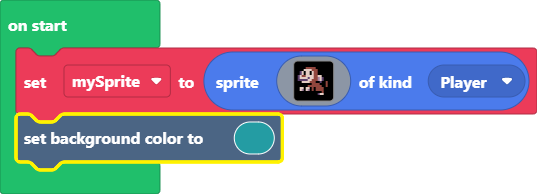
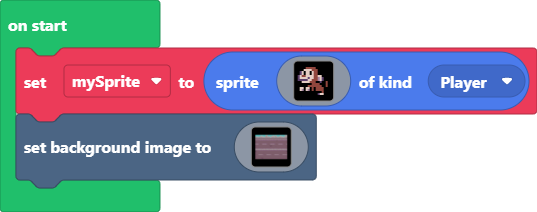
Update main.blocks, main.ts

Changed region(s): [[0.0, 0.2165, 1.0, 0.8969], [0.0, 0.0928, 0.149, 0.1856], [0.0298, 0.3711, 0.0894, 0.4639]]

diff --git a/main.ts b/main.ts
@@ -16,4 +16,125 @@ let mySprite = sprites.create(img`
     . . . . . . . . . f c d d f . . 
     . . . . . . . . . . f f f f . . 
     `, SpriteKind.Player)
-scene.setBackgroundColor(6)
+scene.setBackgroundImage(img`
+    9999999999999999999999999999999999999999999999999999999999999999999999999999999999999999999999999999999999999999999999999999999999999999999999999999999999999999
+    9999999999999999999999999999999999999999999999999999111111111119999999999999999999999999999999999999991111999999999999999999999999999999999999999999111111111111
[12 lines of base64/hex data omitted]
+    cccccccccccccccccccccccccccccccccccccccccccccccccccccccccccccccccccccccccccccccccccccccccccccccccccccccccccccccccccccccccccccccccccccccccccccccccccccccccccccccc
+    1111111111111111111111111111111111111111111111111111111111111111111111111111111111111111111111111111111111111111111111111111111111111111111111111111111111111111
[3 lines of base64/hex data omitted]
+    bbbbbbbbbbbbbbbbbbbbbbbbbbbbbbbbbbbbbbbbbbbbbbbbbbbbbbbbbbbbbbbbbbbbbbbbbbbbbbbbbbbbbbbbbbbbbbbbbbbbbbbbbbbbbbbbbbbbbbbbbbbbbbbbbbbbbbbbbbbbbbbbbbbbbbbbbbbbbbbb
+    bbbbbbbbbbbbbbbbbbbbbbbbbbbbbbbbbbbbbbbbbbbbbbbbbbbbbbbbbbbbbbbbbbbbbbbbbbbbbbbbbbbbbbbbbbbbbbbbbbbbbbbbbbbbbbbbbbbbbbbbbbbbbbbbbbbbbbbbbbbbbbbbbbbbbbbbbbbbbbbb
+    bbbbbbbbbbbbbbbbbbbbbbbbbbbbbbbbbbbbbbbbbbbbbbbbbbbbbbbbbbbbbbbbbbbbbbbbbbbbbbbbbbbbbbbbbbbbbbbbbbbbbbbbbbbbbbbbbbbbbbbbbbbbbbbbbbbbbbbbbbbbbbbbbbbbbbbbbbbbbbbb
+    bbbbbbbbbbbbbbbbbbbbbbbbbbbbbbbbbbbbbbbbbbbbbbbbbbbbbbbbbbbbbbbbbbbbbbbbbbbbbbbbbbbbbbbbbbbbbbbbbbbbbbbbbbbbbbbbbbbbbbbbbbbbbbbbbbbbbbbbbbbbbbbbbbbbbbbbbbbbbbbb
[2 lines of base64/hex data omitted]
+    bbbbbbbbbbbbbbbbbbbbbbbbbbbbbbbbbbbbbbbbbbbbbbbbbbbbbbbbbbbbbbbbbbbbbbbbbbbbbbbbbbbbbbbbbbbbbbbbbbbbbbbbbbbbbbbbbbbbbbbbbbbbbbbbbbbbbbbbbbbbbbbbbbbbbbbbbbbbbbbb
+    bbbbbbbbbbbbbbbbbbbbbbbbbbbbbbbbbbbbbbbbbbbbbbbbbbbbbbbbbbbbbbbbbbbbbbbbbbbbbbbbbbbbbbbbbbbbbbbbbbbbbbbbbbbbbbbbbbbbbbbbbbbbbbbbbbbbbbbbbbbbbbbbbbbbbbbbbbbbbbbb
+    bbbbbbbbbbbbbbbbbbbbbbbbbbbbbbbbbbbbbbbbbbbbbbbbbbbbbbbbbbbbbbbbbbbbbbbbbbbbbbbbbbbbbbbbbbbbbbbbbbbbbbbbbbbbbbccccbbbbbbbbbbbbbbbbbbbbbbbbbbbbbbbbbbbbbbbbbbbbbb
+    bbbbbbbbbbbbbccccbbbbbbbbbbbbbbbbbbbbbbbbbbbbbbbbbbbbbbbbbbbbbbbbbbbbbbbbbbbbbbbbbbbbbbbbbbbbbbbbbbbbbbccccbccbbbbbbbbbbbbbbbbbbbbbbbbbbbbbbbbbbbbbbbbbbbbbbbbbb
+    bbbbbbbbbbbbcbddbcbbbbbbbbbbbbbbbbbbbbbbbbbbbbbbbbbbbbbbbbbbbbbbbbbbbbbbbbbbbbbbbbbbbbbbbbbbbbbbbbbbbbbbbbbccbbbbbbbbbbbbbbbbbbbbbbbbbbbbbbbbbbbbbbbbbbbbbbbbbbb
+    bbbbbbbbbbbbbbbbbbbbbbbbbbbbbbbbbbbbbbbbbbbbbbbbbbbbbbbbbbbbbbbbbbbbbbbbbbbbbbbbbbbbbbbbbbbbbbbbbbbbbbbbbbbbbcbbbbbbbbbbbbbbbbbbbbbbbbbbbbbbbbbbbbbbbbbbbbbbbbbb
+    bbbbbbbbbbbbbbbbbbbbbbbbbbbbbbbbbbbbbbbbbbbbbbbbbbbbbbbbbbbbbbbbbbbbbbbbbbbbbbbbbbbbbbbbbbbbbbbbbbbbbbbbbbbbbbbbbbbbbbbbbbbbbbbbbbbbbbbbbbbbbbbbbbbbbbbbbbbbbbbb
+    bbbbbbbbbbbbbbbbbbbbbbbbbbbbbbbbbbbbbbbbbbbbbbbbbbbbbbbbbbbbbbbbbbbbbbbbbbbbbbbbbbbbbbbbbbbbbbbbbbbbbbbbbbbbbbbbbbbbbbbbbbbbbbbbbbbbbbbbbbbbbbbbbbbbbbbbbbbbbbbb
+    bbbbbbbbbbbbbbbbbbbbbbbbbbbbbbbbbbbbbbbbbbbbbbbbbbbbbbbbbbbbbbbbbbbbbbbbbbbbbbbbbbbbbbbbbbbbbbbbbbbbbbbbbbbbbbbbbbbbbbbbbbbbbbbbbbbbbbbbbbbbbbbbbbbbbbbbbbbbbbbb
+    bbbbbbbbbbbbbbbbbbbbbbbbbbbbbbbbbbbbbbbbbbbbbbbbbbbbbbbbbbbbbbbbbbbbbbbbbbbbbbbbbbbbbbbbbbbbbbbbbbbbbbbbbbbbbbbbbbbbbbbbbbbbbbbbbbbbbbbbbbbbbbbbbbbbbbbbbbbbbbbb
+    bbbbbbbbbbbbbbbbbbbbbbbbbbbbbbbbbbbbbbbbbbbbbbbbbbbbbbbbbbbbbbbbbbbbbbbbbbbbbbbbbbbbbbbbbbbbbbbbbbbbbbbbbbbbbbbbbbbbbbbbbbbbbbbbbbbbbbbbbbbbbbbbbbbbbbbbbbbbbbbb
+    bbbbbbbbbbbbbbbbbbbbbbbbbbbbbbbbbbbbbbbbbbbbbbbbbbbbbbbbbbbbbbbbbbbbbbbbbbbbbbbbbbbbbbbbbbbbbbbbbbbbbbbbbbbbbbbbbbbbbbbbbbbbbbbbbbbbbbbbbbbbbbbbbbbbbbbbbbbbbbbb
+    bbbbbbbbbbbbbbbbbbbbbbbbbbbbbbbbbbbbbbbbbbbbbbbbbbbbbbbbbbbbbbbbbbbbbbbbbbbbbbbbbbbbbbbbbbbbbbbbbbbbbbbbbbbbbbbbbbbbbbbbbbbbbbbbbbbbbbbbbbbbbbbbbbbbbbbbbbbbbbbb
+    bbbbbbbbbbbbbbbbbbbbbbbbbbbbbbbbbbbbbbbbbbbbbbbbbbbbbbbbbbbbbbbbbbbbbbbbbbbbbbbbbbbbbbbbbbbbbbbbbbbbbbbbbbbbbbbbbbbbbbbbbbbbbbbbbbbbbbbbbbbbbbbbbbbbbbbbbbbbbbbb
+    bbbbbbbbbbbbbbbbbbbbbbbbbbbbbbbbbbbbbbbbbbbbbbbbbbbbbbbbbbbbbbbbbbbbbbbbbbbbbbbbbbbbbbbbbbbbbbbbbbbbbbbbbbbbbbbbbbbbbbbbbbbbbbbbbbbbbbbbbbbbbbbbbbbbbbbbbbbbbbbb
+    bbbbbbbbbbbbbbbbbbbbbbbbbbbbbbbbbbbbbbbbbbbbbbbbbbbbbbbbbbbbbbbbbbbbbbbbbbbbbbbbbbbbbbbbbbbbbbbbbbbbbbbbbbbbbbbbbbbbbbbbbbbbbbbbbbbbbbbbbbbbbbbbbbbbbbbbbbbbbbbb
+    bbbbbbbbbbbbbbbbbbbbbbbbbbbbbbbbbbbbbbbbbbbbbbbbbbbbbbbbbbbbbbbbbbbbbbbbbbbbbbbbbbbbbbbbbbbbbbbbbbbbbbbbbbbbbbbbbbbbbbbbbbbbbbbbbbbbbbbbbbbbbbbbbbbbbbbbbbbbbbbb
+    bbbbbbbbbbbbbbbbbbbbbbbbbbbbbbbbbbbbbbbbbbbbbbbbbbbbbbbbbbbbbbbbbbbbbbbbbbbbbbbbbbbbbbbbbbbbbbbbbbbbbbbbbbbbbbbbbbbbbbbbbbbbbbbbbbbbbbbbbbbbbbbbbbbbbbbbbbbbbbbb
+    bbbbbbbbbbbbbbbbbbbbbbbbbbbbbbbbbbbbbbbbbbbbbbbbbbbbbbbbbbbbbbbbbbbbbbbbbbbbbbbbbbbbbbbbbbbbbbbbbbbbbbbbbbbbbbbbbbbbbbbbbbbbbbbbbbbbbbbbbbbbbbbbbbbbbbbbbbbbbbbb
+    bbbbbbbbbbbbbbbbbbbbbbbbbbbbbbbbbbbbbbbbbbbbbbbbbbbbbbbbbbbbbbbbbbbbbbbbbbbbbbbbbbbbbbbbbbbbbbbbbbbbbbbbbbbbbbbbbbbbbbbbbbbbbbbbbbbbbbbbbbbbbbbbbbbbbbbbbbbbbbbb
[2 lines of base64/hex data omitted]
+    bbbbbbbbbbbbbbbbbbbbbbbbbbbbbbbbbbbbbbbbbbbbbbbbbbbbbbbbbbbbbbbbbbbbbbbbbbbbbbbbbbbbbbbbbbbbbbbbbbbbbbbbbbbbbbbbbbbbbbbbbbbbbbbbbbbbbbbbbbbbbbbbbbbbbbbbbbbbbbbb
+    bbbbbbbbbbbbbbbbbbbbbbbbbbbbbbbbbbbbbbbbbbbbbbbbbbbbbbbbbbbbbbbbbbbbbbbbbbbbbbbbbbbbbbbbbbbbbbbbbbbbbbbbbbbbbbbbbbbbbbbbbbbbbbbbbbbbbbbbbbbbbbbbbbbbbbbbbbbbbbbb
+    bbbbbbbbbbbbbbbbbbbbbbbbbbbbbbbbbbbbbbbbbbbbbbbbbbbbbbbbbbbbbbbbbbbbbbbbbbbbbbbbbbbbbbbbbbbbbbbbbbbbbbbbbbbbbbbbbbbbbbbbbbbbbbbbbbbbbbbbbbbbbbbbbbbbbbbbbbbbbbbb
+    bbbbbbbbbbbbbbbbbbbbbbbbbbbbbbbbbbbbbbbbbbbbbbbbbbbbbbbbbbbbbbbbbbbbbbbbbbbbbbbbbbbbbbbbbbbbbbbbbbbbbbbbbbbbbbbbbbbbbbbbbbbbbbbbbbbbbbbbbbbbbbbbbbbbbbbbbbbbbbbb
+    bbbbbbbbbbbbbbbbbbbbbbbbbbbbbbbbbbbbbbbbbbbbbbbbbbbbbbbbbbbbbbbbbbbbbbbbbbbbbbbbbbbbbbbbbbbbbbbbbbbbbbbbbbbbbbbbbbbbbbbbbbbbbbbbbbbbbbbbbbbbbbbbbbbbbbbbbbbbbbbb
+    bbbbbbbbbbbbbbbbbbbbbbbbbbbbbbbbbbbbbbbbbbbbbbbbbbbbbbbbbbbbbbbbbbbbbbbbbbbbbbbbbbbcbbbbbbbbbbbbbbbbbbbbbbbbbbbbbbbbbbbbbbbbbbbbbbbbbbbbbbbbbbbbbbbbbbbbbbbbbbbb
+    bbbbbbbbbbbbbbbbbbbbbbbbbbbbbbbbbbbbbbbbbbbbbbbbbbbbbbbbbbbbbbbbbbbbbbbbbcccbbbccccbbbbbbbbbbbbbbbbbbbbbbbbbbbbbbbbbbbbbbbbbbbbbbbbbbbbbbbbbbbbbbbbbbbbbbbbbbbbb
+    bbbbbbbbbbbbbbbbbbbbbbbbbbbbbbbbbbbbbbbbbbbbbbbbbbbbbbbbbbbbbbbbbbbbbbbbcbbcbbcbcbbbbbbbbbbbbbbbbbbbbbbbbbbbbbbbbbbbbbbbbbbbbbbbbbbbbbbbbbbbbbbbbbbbbbbbbbbbbbbb
+    bbbbbbbbbbbbbbbbbbbbbbbbbbbbbbbbbbbbbbbbbbbbbbbbbbbbbbbbbbbbbbbbbbbbbbbbbbbbccbcbbbbbbbbbbbbbbbbbbbbbbbbbbbbbbbbbbbbbbbbbbbbbbbbbbbbbbbbbbbbbbbbbbbbbbbbbbbbbbbb
+    bbbbbbbbbbbbbbbbbbbbbbbbbbbbbbbbbbbbbbbbbbbbbbbbbbbbbbbbbbbbbbbbbbbbbbbbbbbbbcccccbbbbbbbbbbbbbbbbbbbbbbbbbbbbbbbbbbbbbbbbbbbbbbbbbbbbbbbbbbbbbbbbbbbbbbbbbbbbbb
+    bbbbbbbbbbbbbbbbbbbbbbbbbbbbbbbbbbbbbbbbbbbbbbbbbbbbbbbbbbbbbbbbbbbbbbbbbbbbbbbbbbcbbbbbbbbbbbbbbbbbbbbbbbbbbbbbbbbbbbbbbbbbbbbbbbbbbbbbbbbbbbbbbbbbbbbbbbbbbbbb
+    bbbbbbbbbbbbbbbbbbbbbbbbbbbbbbbbbbbbbbbbbbbbbbbbbbbbbbbbbbbbbbbbbbbbbbbbbbbbbbbbbbbbbbbbbbbbbbbbbbbbbbccccbbbbbbbbbbbbbbbbbbbbbbbbbbbbbbbbbbbbbbbbbbbbbbbbbbbbbb
+    bbbbbbbbbbbbbbbbbbbbbbbbbbbbbbbbbbbbbbbbbbbbbbbbbbbbbbbbbbbbbbbbbbbbbbbbbbbbbbbbbbbbbbbbbbbbbbbbbbbbbcbddbcbbbbbbbbbbbbbbbbbbbbbbbbbbbbbbbbbbbbbbbbbbbbbbbbbbbbb
+    bbbbbbbbbbbbbbbbbbbbbbbbbbbbbbbbbbbbbbbbbbbbbbbbbbbbbbbbbbbbbbbbbbbbbbbbbbbbbbbbbbbbbbbbbbbbbbbbbbbbbbbbbbbbbbbbbbbbbbbbbbbbbbbbbbbbbbbbbbbbbbbbbbbbbbbbbbbbbbbb
+    bbbbbbbbbbbbbbbbbbbbbbbbbbbbbbbbbbbbbbbbbbbbbbbbbbbbbbbbbbbbbbbbbbbbbbbbbbbbbbbbbbbbbbbbbbbbbbbbbbbbbbbbbbbbbbbbbbbbbbbbbbbbbbbbbbbbbbbbbbbbbbbbbbbbbbbbbbbbbbbb
+    bbbbbbbbbbbbbbbbbbbbbbbbbbbbbbbbbbbbbbbbbbbbbbbbbbbbbbbbbbbbbbbbbbbbbbbbbbbbbbbbbbbbbbbbbbbbbbbbbbbbbbbbbbbbbbbbbbbbbbbbbbbbbbbbbbbbbbbbbbbbbbbbbbbbbbbbbbbbbbbb
+    bbbbbbbbbbbbbbbbbbbbbbbbbbbbbbbbbbbbbbbbbbbbbbbbbbbbbbbbbbbbbbbbbbbbbbbbbbbbbbbbbbbbbbbbbbbbbbbbbbbbbbbbbbbbbbbbbbbbbbbbbbbbbbbbbbbbbbbbbbbbbbbbbbbbbbbbbbbbbbbb
+    bbbbbbbbbbbbbbbbbbbbbbbbbbbbbbbbbbbbbbbbbbbbbbbbbbbbbbbbbbbbbbbbbbbbbbbbbbbbbbbbbbbbbbbbbbbbbbbbbbbbbbbbbbbbbbbbbbbbbbbbbbbbbbbbbbbbbbbbbbbbbbbbbbbbbbbbbbbbbbbb
+    bbbbbbbbbbbbbbbbbbbbbbbbbbbbbbbbbbbbbbbbbbbbbbbbbbbbbbbbbbbbbbbbbbbbbbbbbbbbbbbbbbbbbbbbbbbbbbbbbbbbbbbbbbbbbbbbbbbbbbbbbbbbbbbbbbbbbbbbbbbbbbbbbbbbbbbbbbbbbbbb
+    bbbbbbbbbbbbbbbbbbbbbbbbbbbbbbbbbbbbbbbbbbbbbbbbbbbbbbbbbbbbbbbbbbbbbbbbbbbbbbbbbbbbbbbbbbbbbbbbbbbbbbbbbbbbbbbbbbbbbbbbbbbbbbbbbbbbbbbbbbbbbbbbbbbbbbbbbbbbbbbb
+    bbbbbbbbbbbbbbbbbbbbbbbbbbbbbbbbbbbbbbbbbbbbbbbbbbbbbbbbbbbbbbbbbbbbbbbbbbbbbbbbbbbbbbbbbbbbbbbbbbbbbbbbbbbbbbbbbbbbbbbbbbbbbbbbbbbbbbbbbbbbbbbbbbbbbbbbbbbbbbbb
+    bbbbbbbbbbbbbbbbbbbbbbbbbbbbbbbbbbbbbbbbbbbbbbbbbbbbbbbbbbbbbbbbbbbbbbbbbbbbbbbbbbbbbbbbbbbbbbbbbbbbbbbbbbbbbbbbbbbbbbbbbbbbbbbbbbbbbbbbbbbbbbbbbbbbbbbbbbbbbbbb
[2 lines of base64/hex data omitted]
+    bbbbbbbbbbbbbbbbbbbbbbbbbbbbbbbbbbbbbbbbbbbbbbbbbbbbbbbbbbbbbbbbbbbbbbbbbbbbbbbbbbbbbbbbbbbbbbbbbbbbbbbbbbbbbbbbbbbbbbbbbbbbbbbbbbbbbbbbbbbbbbbbbbbbbbbbbbbbbbbb
+    bbbbbbbbbbbbbbbbbbbbbbbbbbbbbbbbbbbbbbbbbbbbbbbbbbbbbbbbbbbbbbbbbbbbbbbbbbbbbbbbbbbbbbbbbbbbbbbbbbbbbbbbbbbbbbbbbbbbbbbbbbbbbbbbbbbbbbbbbbbbbbbbbbbbbbbbbbbbbbbb
[2 lines of base64/hex data omitted]
+    bbbbbbbbbbbbbbbbbbbbbbbbbbbbbbbbbbbbbbbbbbbbbbbbbbbbbbbbbbbbbbbbbbbbbbbbbbbbbbbbbbbbbbbbbbbbbbbbbbbbbbbbbbbbbbbbbbbbbbbbbbbbbbbbbbbbbbbbbbbbbbbbbbbbbbbbbbbbbbbb
+    bbbbbbbbbbbbbbbbbbbbbbbbbbbbbbbbbbbbbbbbbbbbbbbbbbbbbbbbbbbbbbbbbbbbbbbbbbbbbbbbbbbbbbbbbbbbbbbbbbbbbbbbbbbbbbbbbbbbbbbbbbbbbbbbbbbbbbbbbbbbbbbbbbbbbbbbbbbbbbbb
+    bbbbbbbbbbbbbbbbbbbbbbbbbbbbbbbbbbbbbbbbbbbbbbbbbbbbbbbbbbbbbbbbbbbbbbbbbbbbbbbbbbbbbbbbbbbbbbbbbbbbbbbbbbbbbbbbbbbbbbbbbbbbbbbbbbbbbbbbbbbbbbbbbbbbbbbbbbbbbbbb
+    bbbbbbbbbbbbbbbbbbbbbbbbbbbbbbbbbbbbbbbbbbbbbbbbbbbbbbbbbbbbbbbbbbbbbbbbbbbbbbbbbbbbbbbbbbbbbbbbbbbbbbbbbbbbbbbbbbbbbbbbbbbbbbbbbbbbbbbbbbbbbbbbbbbbbbbbbbbbbbbb
+    bbbcccbbbbbbbbbbbbbbbbbbbbbbbbbbbbbbbbbbbbbbbbbbbbbbbbbbbbbbbbbbbbbbbbbbbbbbbbbbbbbbbbbbbbbbbbbbbbbbbbbbbbbbbbbbbbbbbbbbbbbbbbbbbbbbbbbbbbbbbbbbbbbbbbbbbbbbbbbb
+    bbccbbcbbbbbbbbbbbbbbbbbbbbbbbbbbbbbbbbbbbbbbbbbbbbbbbbbbbbbbbbbbbbbbbbbbbbbbbbbbbbbbbbbbbbbbbbbbbbbbbbbbbbbbbbbbbbbbbbbbbbbbbbbbbbbbbbbbbbbbbbbbbbbbbbbbbbbbbbb
+    cccbbbbbbbbbbbbbbbbbbbbbbbbbbbbbbbbbbbbbbbbbbbbbbbbbbbbbbbbbbbbbbbbbbbbbbbbbbbbbbbbbbbbbbbbbbbbbbbbbbbbbbbbbbbbbbbbbbbbbbbbbbbbbbbbbbbbbbbbbbbbbbbbbbbbbbbbbbbbc
+    bccbbbbbbbbbbbbbbbbbbbbbbbbbbbbbbbbbbbbbbbbbbbbbbbbbbbbbbbbbbbbbbbbbbbbbbbbbbbbbbbbbbbbbbbbbbbbbbbbbbbbbbbbbbbbbbbbbbbbbbbbbbbbbbbbbbbbbbbbbbbbbbbbbbbbbbbbbcccc
+    ccccbbbbbbbbbbbbbbbbbbbbbbbbbbbbbbbbbbbbbbbbbbbbbbbbbbbbbbbbbbbbbbbbbbbbbbbbbbbbbbbbbbbbbbbbbbbbbbbbbbbbbbbbbbbbbbbbbbbbbbbbbbbbbbbbbbbbbbbbbbbbbbbbbbbbbbccbbbb
+    bbbbccbbbbbbbbbbbbbbbbbbbbbbbbbbbbbbbbbbbbbbbbbbbbbbbbbbbbbbbbbbbbbbbbbbbbbbbbbbbbbbbbbbbbbbbbbbbbbbbbbbbbbbbbbbbbbbbbbbbbbbbbbbbbbbbbbbbbbbbbbbbbbbbbbbbbbbbbbb
+    bbbbbbbbbbbbbbbbbbbbbbbbbbbbbbbbbbbbbbbbbbbbbbbbbbbbbbbbbbbbbbbbbbbbbbbbbbbbbbbbbbbbbbbbbbbbbbbbbbbbbbbbbbbbbbbbbbbbbbbbbbbbbbbbbbbbbbbbbbbbbbbbbbbbbbbbbbbbbbbb
+    bbbbbbbbbbbbbbbbbbbbbbbbbbbbbbbbbbbbbbbbbbbbbbbbbbbbbbbbbbbbbbbbbbbbbbbbbbbbbbbbbbbbbbbbbbbbbbbbbbbbbbbbbbbbbbbbbbbbbbbbbbbbbbbbbbbbbbbbbbbbbbbbbbbbbbbbbbbbbbbb
+    bbbbbbbbbbbbbbbbbbbbbbbbbbbbbbbbbbbbbbbbbbbbbbbbbbbbbbbbbbbbbbbbbbbbbbbbbbbbbbbbbbbbbbbbbbbbbbbbbbbbbbbbbbbbbbbbbbbbbbbbbbbbbbbbbbbbbbbbbbbbbbbbbbbbbbbbbbbbbbbb
+    bbbbbbbbbbbbbbbbbbbbbbbbbbbbbbbbbbbbbbbbbbbbbbbbbbbbbbbbbbbbbbbbbbbbbbbbbbbbbbbbbbbbbbbbbbbbbbbbbbbbbbbbbbbbbbbbbbbbbbbbbbbbbbbbbbbbbbbbbbbbbbbbbbbbbbbbbbbbbbbb
+    bbbbbbbbbbbbbbbbbbbbbbbbbbbbbbbbbbbbbbbbbbbbbbbbbbbbbbbbbbbbbbbbbbbbbbbbbbbbbbbbbbbbbbbbbbbbbbbbbbbbbbbbbbbbbbbbbbbbbbbbbbbbbbbbbbbbbbbbbbbbbbbbbbbbbbbbbbbbbbbb
+    bbbbbbbbbbbbbbbbbbbbbbbbbbbbbbbbbbbbbbbbbbbbbbbbbbbbbbbbbbbbbbbbbbbbbbbbbbbbbbbbbbbbbbbbbbbbbbbbbbbbbbbbbbbbbbbbbbbbbbbbbbbbbbbbbbbbbbbbbbbbbbbbbbbbbbbbbbbbbbbb
+    bbbbbbbbbbbbbbbbbbbbbbbbbbbbbbbbbbbbbbbbccccbbbbbbbbbbbbbbbbbbbbbbbbbbbbbbbbbbbbbbbbbbbbbbbbbbbbbbbbbbbbbbbbbbbbbbbbbbbbbbbbbbbbbbbbbbbbbbbbbbbbbbbbbbbbbbbbbbbb
+    bbbbbbbbbbbbbbbbbbbbbbbbbbbbbbbbbbbbbbbcbddbcbbbbbbbbbbbbbbbbbbbbbbbbbbbbbbbbbbbbbbbbbbbbbbbbbbbbbbbbbbbbbbbbbbbbbbbbbbbbbbbbbbbbbbbbbbbbbbbbbbbbbbbbbbbbbbbbbbb
+    bbbbbbbbbbbbbbbbbbbbbbbbbbbbbbbbbbbbbbbbbbbbbbbbbbbbbbbbbbbbbbbbbbbbbbbbbbbbbbbbbbbbbbbbbbbbbbbbbbbbbbbbbbbbbbbbbbbbbbbbbbbbbbbbbbbbbbbbbbbbbbbbbbbbbbbbbbbbbbbb
+    bbbbbbbbbbbbbbbbbbbbbbbbbbbbbbbbbbbbbbbbbbbbbbbbbbbbbbbbbbbbbbbbbbbbbbbbbbbbbbbbbbbbbbbbbbbbbbbbbbbbbbbbbbbbbbbbbbbbbbbbbbbbbbbbbbbbbbbbbbbbbbbbbbbbbbbbbbbbbbbb
+    bbbbbbbbbbbbbbbbbbbbbbbbbbbbbbbbbbbbbbbbbbbbbbbbbbbbbbbbbbbbbbbbbbbbbbbbbbbbbbbbbbbbbbbbbbbbbbbbbbbbbbbbbbbbbbbbbbbbbbbbbbbbbbbbbbbbbbbbbbbbbbbbbbbbbbbbbbbbbbbb
+    bbbbbbbbbbbbbbbbbbbbbbbbbbbbbbbbbbbbbbbbbbbbbbbbbbbbbbbbbbbbbbbbbbbbbbbbbbbbbbbbbbbbbbbbbbbbbbbbbbbbbbbbbbbbbbbbbbbbbbbbbbbbbbbbbbbbbbbbbbbbbbbbbbbbbbbbbbbbbbbb
[2 lines of base64/hex data omitted]
+    bbbbbbbbbbbbbbbbbbbbbbbbbbbbbbbbbbbbbbbbbbbbbbbbbbbbbbbbbbbbbbbbbbbbbbbbbbbbbbbbbbbbbbbbbbbbbbbbbbbbbbbbbbbbbbbbbbbbbbbbbbbbbbbbbbbbbbbbbbbbbbbbbbbbbbbbbbbbbbbb
+    bbbbbbbbbbbbbbbbbbbbbbbbbbbbbbbbbbbbbbbbbbbbbbbbbbbbbbbbbbbbbbbbbbbbbbbbbbbbbbbbbbbbbbbbbbbbbbbbbbbbbbbbbbbbbbbbbbbbbbbbbbbbbbbbbbbbbbbbbbbbbbbbbbbbbbbbbbbbbbbb
+    bbbbbbbbbbbbbbbbbbbbbbbbbbbbbbbbbbbbbbbbbbbbbbbbbbbbbbbbbbbbbbbbbbbbbbbbbbbbbbbbbbbbbbbbbbbbbbbbbbbbbbbbbbbbbbbbbbbbbbbbbbbbbbbbbbbbbbbbbbbbbbbbbbbbbbbbbbbbbbbb
+    bbbbbbbbbbbbbbbbbbbbbbbbbbbbbbbbbbbbbbbbbbbbbbbbbbbbbbbbbbbbbbbbbbbbbbbbbbbbbbbbbbbbbbbbbbbbbbbbbbbbbbbbbbbbbbbbbbbbbbbbbbbbbbbbbbbbbbbbbbbbbbbbbbbbbbbbbbbbbbbb
+    bbbbbbbbbbbbbbbbbbbbbbbbbbbbbbbbbbbbbbbbbbbbbbbbbbbbbbbbbbbbbbbbbbbbbbbbbbbbbbbbbbbbbbbbbbbbbbbbbbbbbbbbbbbbbbbbbbbbbbbbbbbbbbbbbbbbbbbbbbbbbbbbbbbbbbbbbbbbbbbb
+    bbbbbbbbbbbbbbbbbbbbbbbbbbbbbbbbbbbbbbbbbbbbbbbbbbbbbbbbbbbbbbbbbbbbbbbbbbbbbbbbbbbbbbbbbbbbbbbbbbbbbbbbbbbbbbbbbbbbbbbbbbbbbbbbbbbbbbbbbbbbbbbbbbbbbbbbbbbbbbbb
+    bbbbbbbbbbbbbbbbbbbbbbbbbbbbbbbbbbbbbbbbbbbbbbbbbbbbbbbbbbbbbbbbbbbbbbbbbbbbbbbbbbbbbbbbbbbbbbbbbbbbbbbbbbbbbbbbbbbbbbbbbbbbbbbbbbbbbbbbbbbbbbbbbbbbbbbbbbbbbbbb
+    bbbbbbbbbbbbbbbbbbbbbbbbbbbbbbbbbbbbbbbbbbbbbbbbbbbbbbbbbbbbbbbbbbbbbbbbbbbbbbbbbbbbbbbbbbbbbbbbbbbbbbbbbbbbbbbbbbbbbbbbbbbbbbbbbbbbbbbbbbbbbbbbbbbbbbbbbbbbbbbb
+    bbbbbbbbbbbbbbbbbbbbbbbbbbbbbbbbbbbbbbbbbbbbbbbbbbbbbbbbbbbbbbbbbbbbbbbbbbbbbbbbbbbbbbbbbbbbbbbbbbbbbbbbbbbbbbbbbbbbbbbbbbbbbbbbbbbbbbbbbbbbbbbbbbbbbbbbbbbbbbbb
+    bbbbbbbbbbbbbbbbbbbbbbbbbbbbbbbbbbbbbbbbbbbbbbbbbbbbbbbbbbbbbbbbbbbbbbbbbbbbbbbbbbbbbbbbbbbbbbbbbbbbbbbbbbbbbbbbbbbbbbbbbbbbbbbbbbbbbbbbbbbbbbbbbbbbbbbbbbbbbbbb
+    ccbbbbbbbbbbbbbbbbbbbbbbbbbbbbbbbbbbbbbbbbbbbbbbbbbbbbbbbbbbbbbbbbbbbbbbbbbbbbbbbbbbbbbbbbbbbbbbbbbbbbbbbbbbbbbbbbbbbbbbbbbbbbbbbbbbbbbbbbbbbbbbbbbbbbbbbbbbbbcc
+    dbcbbbbbbbbbbbbbbbbbbbbbbbbbbbbbbbbbbbbbbbbbbbbbbbbbbbbbbbbbbbbbbbbbbbbbbbbbbbbbbbbbbbbbbbbbbbbbbbbbbbbbbbbbbbbbbbbbbbbbbbbbbbbbbbbbbbbbbbbbbbbbbbbbbbbbbbbbbcbd
+    bbbbbbbbbbbbbbbbbbbbbbbbbbbbbbbbbbbbbbbbbbbbbbbbbbbbbbbbbbbbbbbbbbbbbbbbbbbbbbbbbbbbbbbbbbbbbbbbbbbbbbbbbbbbbbbbbbbbbbbbbbbbbbbbbbbbbbbbbbbbbbbbbbbbbbbbbbbbbbbb
+    bbbbbbbbbbbbbbbbbbbbbbbbbbbbbbbbbbbbbbbbbbbbbbbbbbbbbbbbbbbbbbbbbbbbbbbbbbbbbbbbbbbbbbbbbbbbbbbbbbbbbbbbbbbbbbbbbbbbbbbbbbbbbbbbbbbbbbbbbbbbbbbbbbbbbbbbbbbbbbbb
+    bbbbbbbbbbbbbbbbbbbbbbbbbbbbbbbbbbbbbbbbbbbbbbbbbbbbbbbbbbbbbbbbbbbbbbbbbbbbbbbbbbbbbbbbbbbbbbbbbbbbbbbbbbbbbbbbbbbbbbbbbbbbbbbbbbbbbbbbbbbbbbbbbbbbbbbbbbbbbbbb
+    bbbbbbbbbbbbbbbbbbbbbbbbbbbbbccbbbbbbbbcbbbbbbbbbbbbbbbbbbbbbbbbbbbbbbbbbbbbbbbbbbbbbbbbbbbbbbbbbbbbbbbbbbbbbbbbbbbbbbbbbbbbbbbbbbbbbbbbbbbbbbbbbbbbbbbbbbbbbbbb
+    bbbbbbbbbbbbbbbbbbbbbbbbbbbbbbbbcccccccbbbbbbbbbbbbbbbbbbbbbbbbbbbbbbbbbbbbbbbbbbbbbbbbbbbbbbbbbbbbbbbbbbbbbbbbbbbbbbbbbbbbbbbbbbbbbbbbbbbbbbbbbbbbbbbbbbbbbbbbb
+    bbbbbbbbbbbbbbbbbbbbbbbbbbbbbbbbbbcbcbbbbbbbbbbbbbbbbbbbbbbbbbbbbbbbbbbbbbbbbbbbbbbbbbbbbbbbbbbbbbbbbbbbbbbbbbbbbbbbbbbbbbbbbbbbbbbbbbbbbbbbbbbbbbbbbbbbbbbbbbbb
+    bbbbbbbbbbbbbbbbbbbbbbbbbbbbbbbbbbbcccbbbbbbbbbbbbbbbbbbbbbbbbbbbbbbbbbbbbbbbbbbbbbbbbbbbbbbbbbbbbbbbbbbbbbbbbbbbbbbbbbbbbbbbbbbbbbbbbbbbbbbbbbbbbbbbbbbbbbbbbbb
+    bbbbbbbbbbbbbbbbbbbbbbbbbbbbbbbbbbbbbbccbbbbbbbbbbbbbbbbbbbbbbbbbbbbbbbbbbbbbbbbbbbbbbbbbbbbbbbbbbbbbbbbbbbbbbbbbbbbbbbbbbbbbbbbbbbbbbbbbbbbbbbbbbbbbbbbbbbbbbbb
+    bbbbbbbbbbbbbbbbbbbbbbbbbbbbbbbbbbbbbbbbbbbbbbbbbbbbbbbbbbbbbbbbbbbbbbbbbbbbbbbbbbbbbbbbbbbbbbbbbbbbbbbbbbbbbbbbbbbbbbbbbbbbbbbbbbbbbbbbbbbbbbbbbbbbbbbbbbbbbbbb
+    `)
